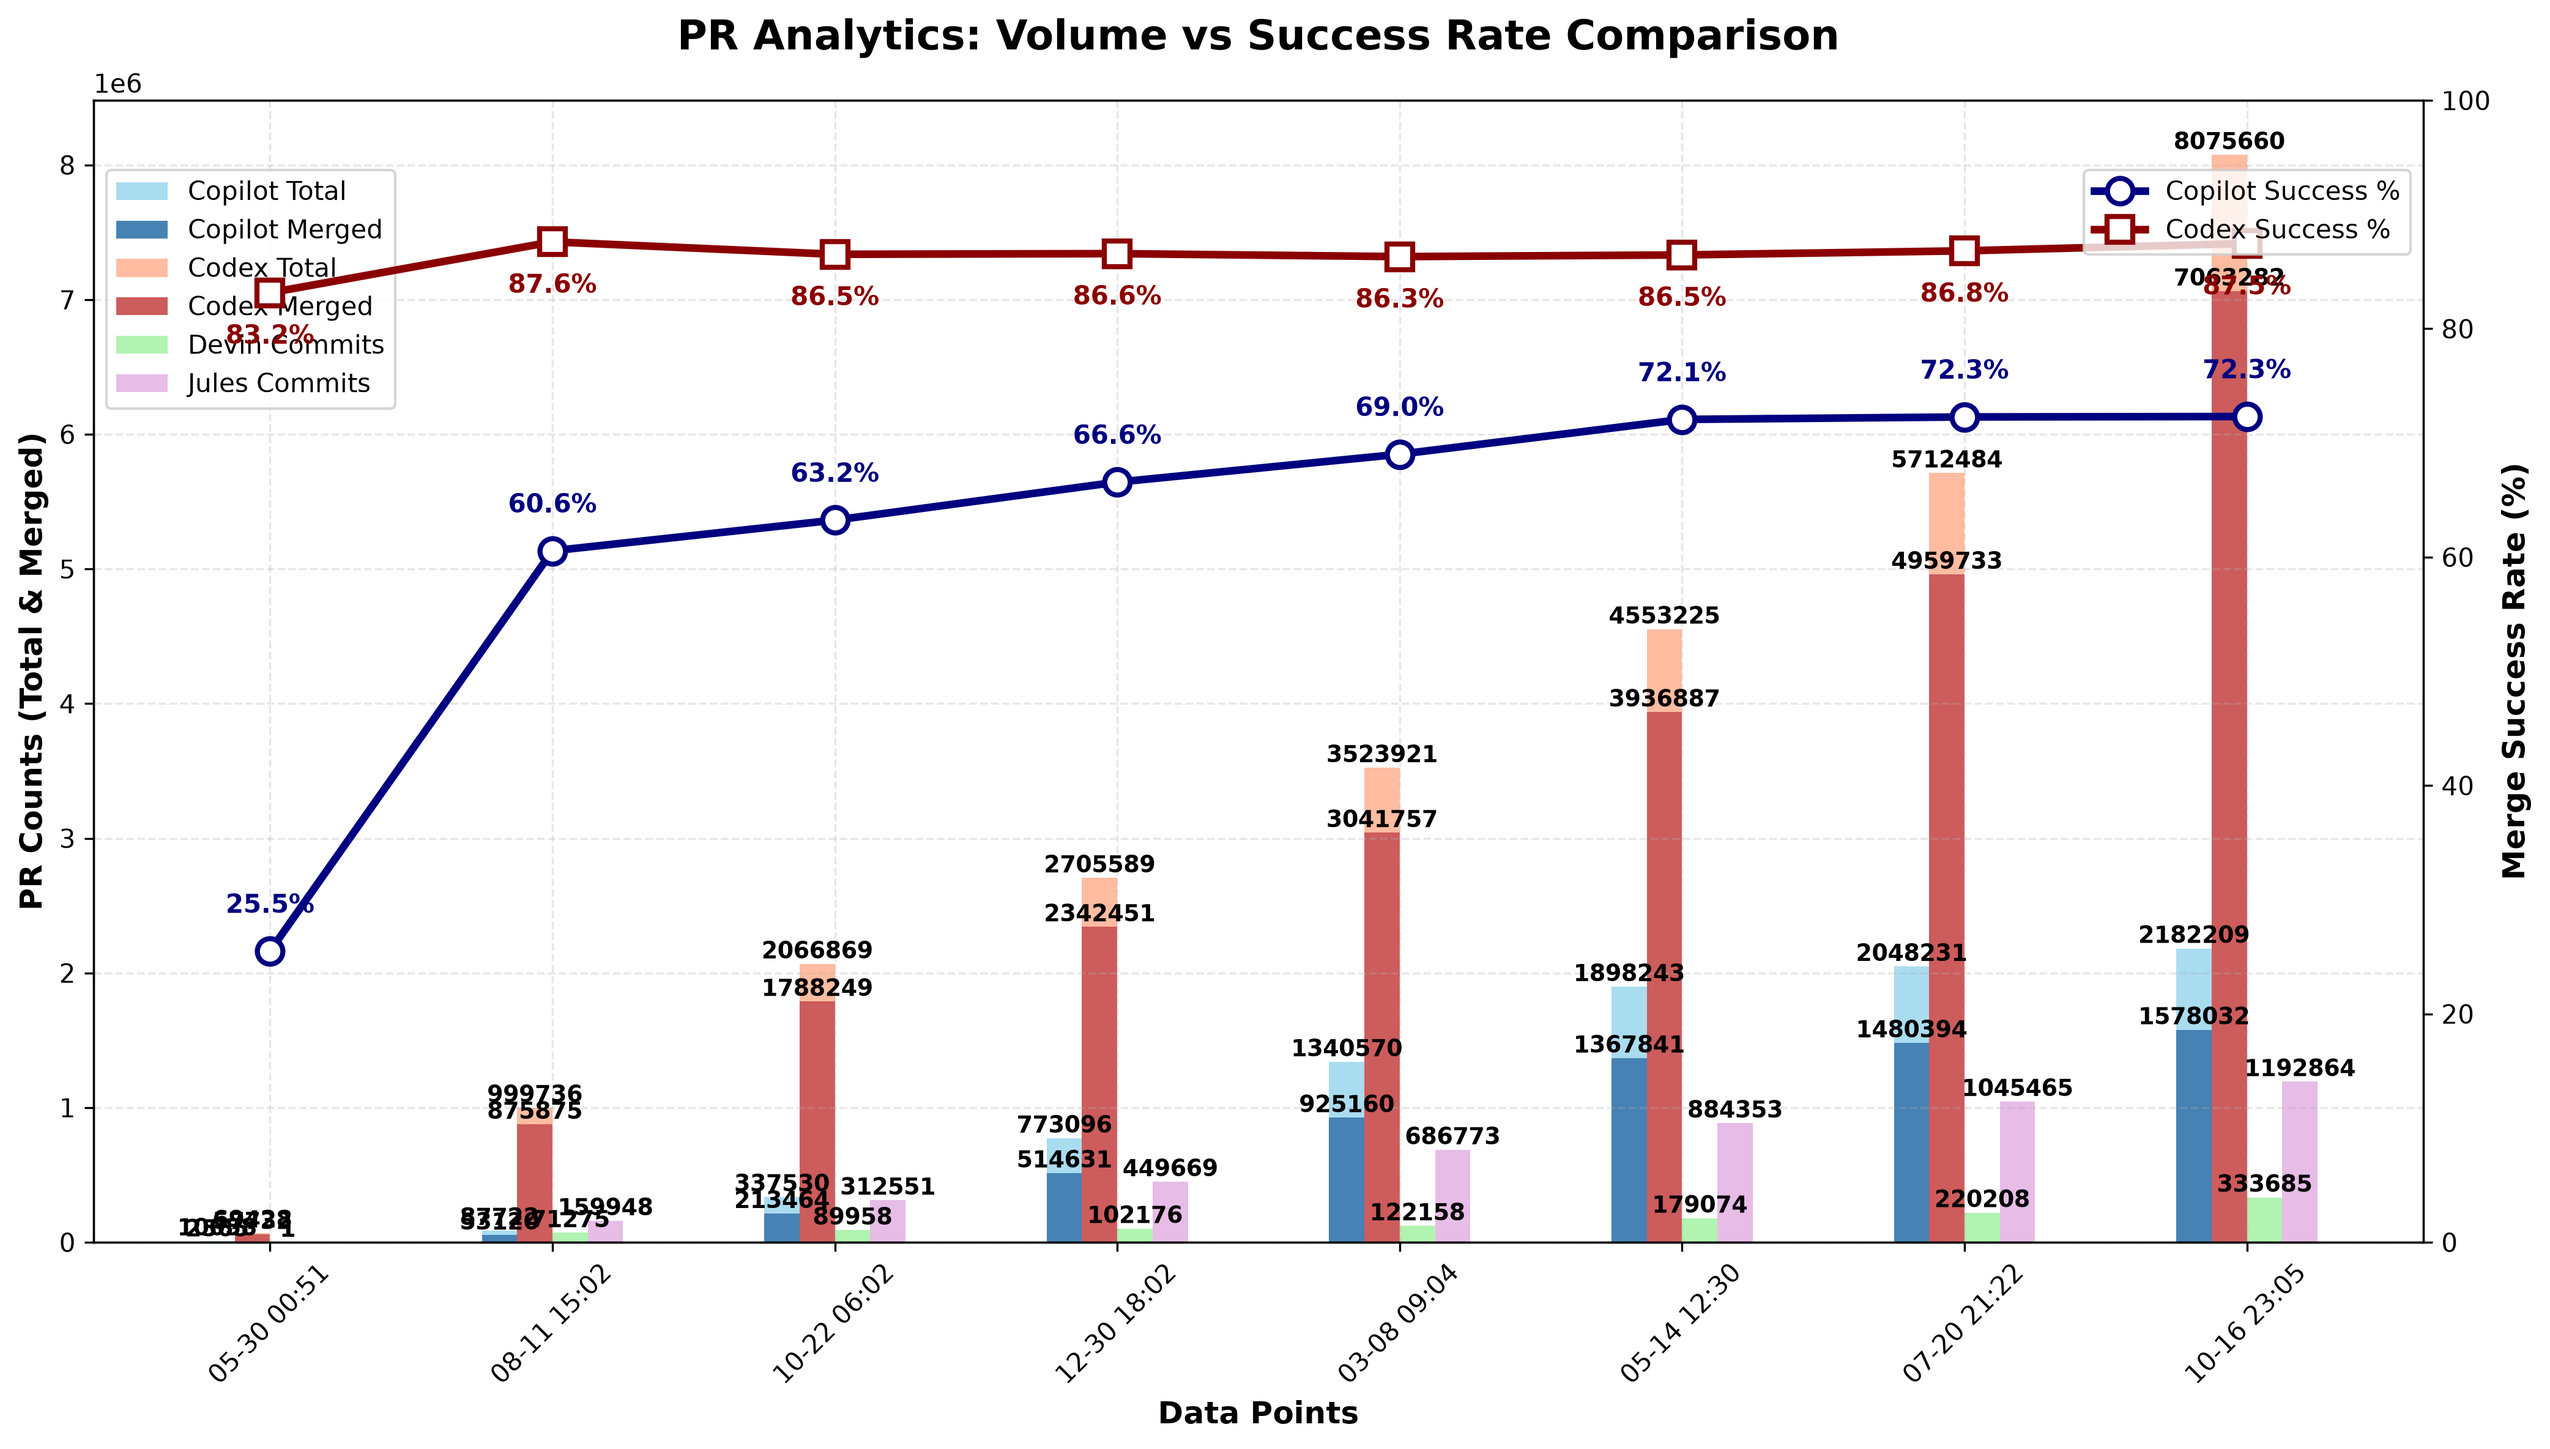
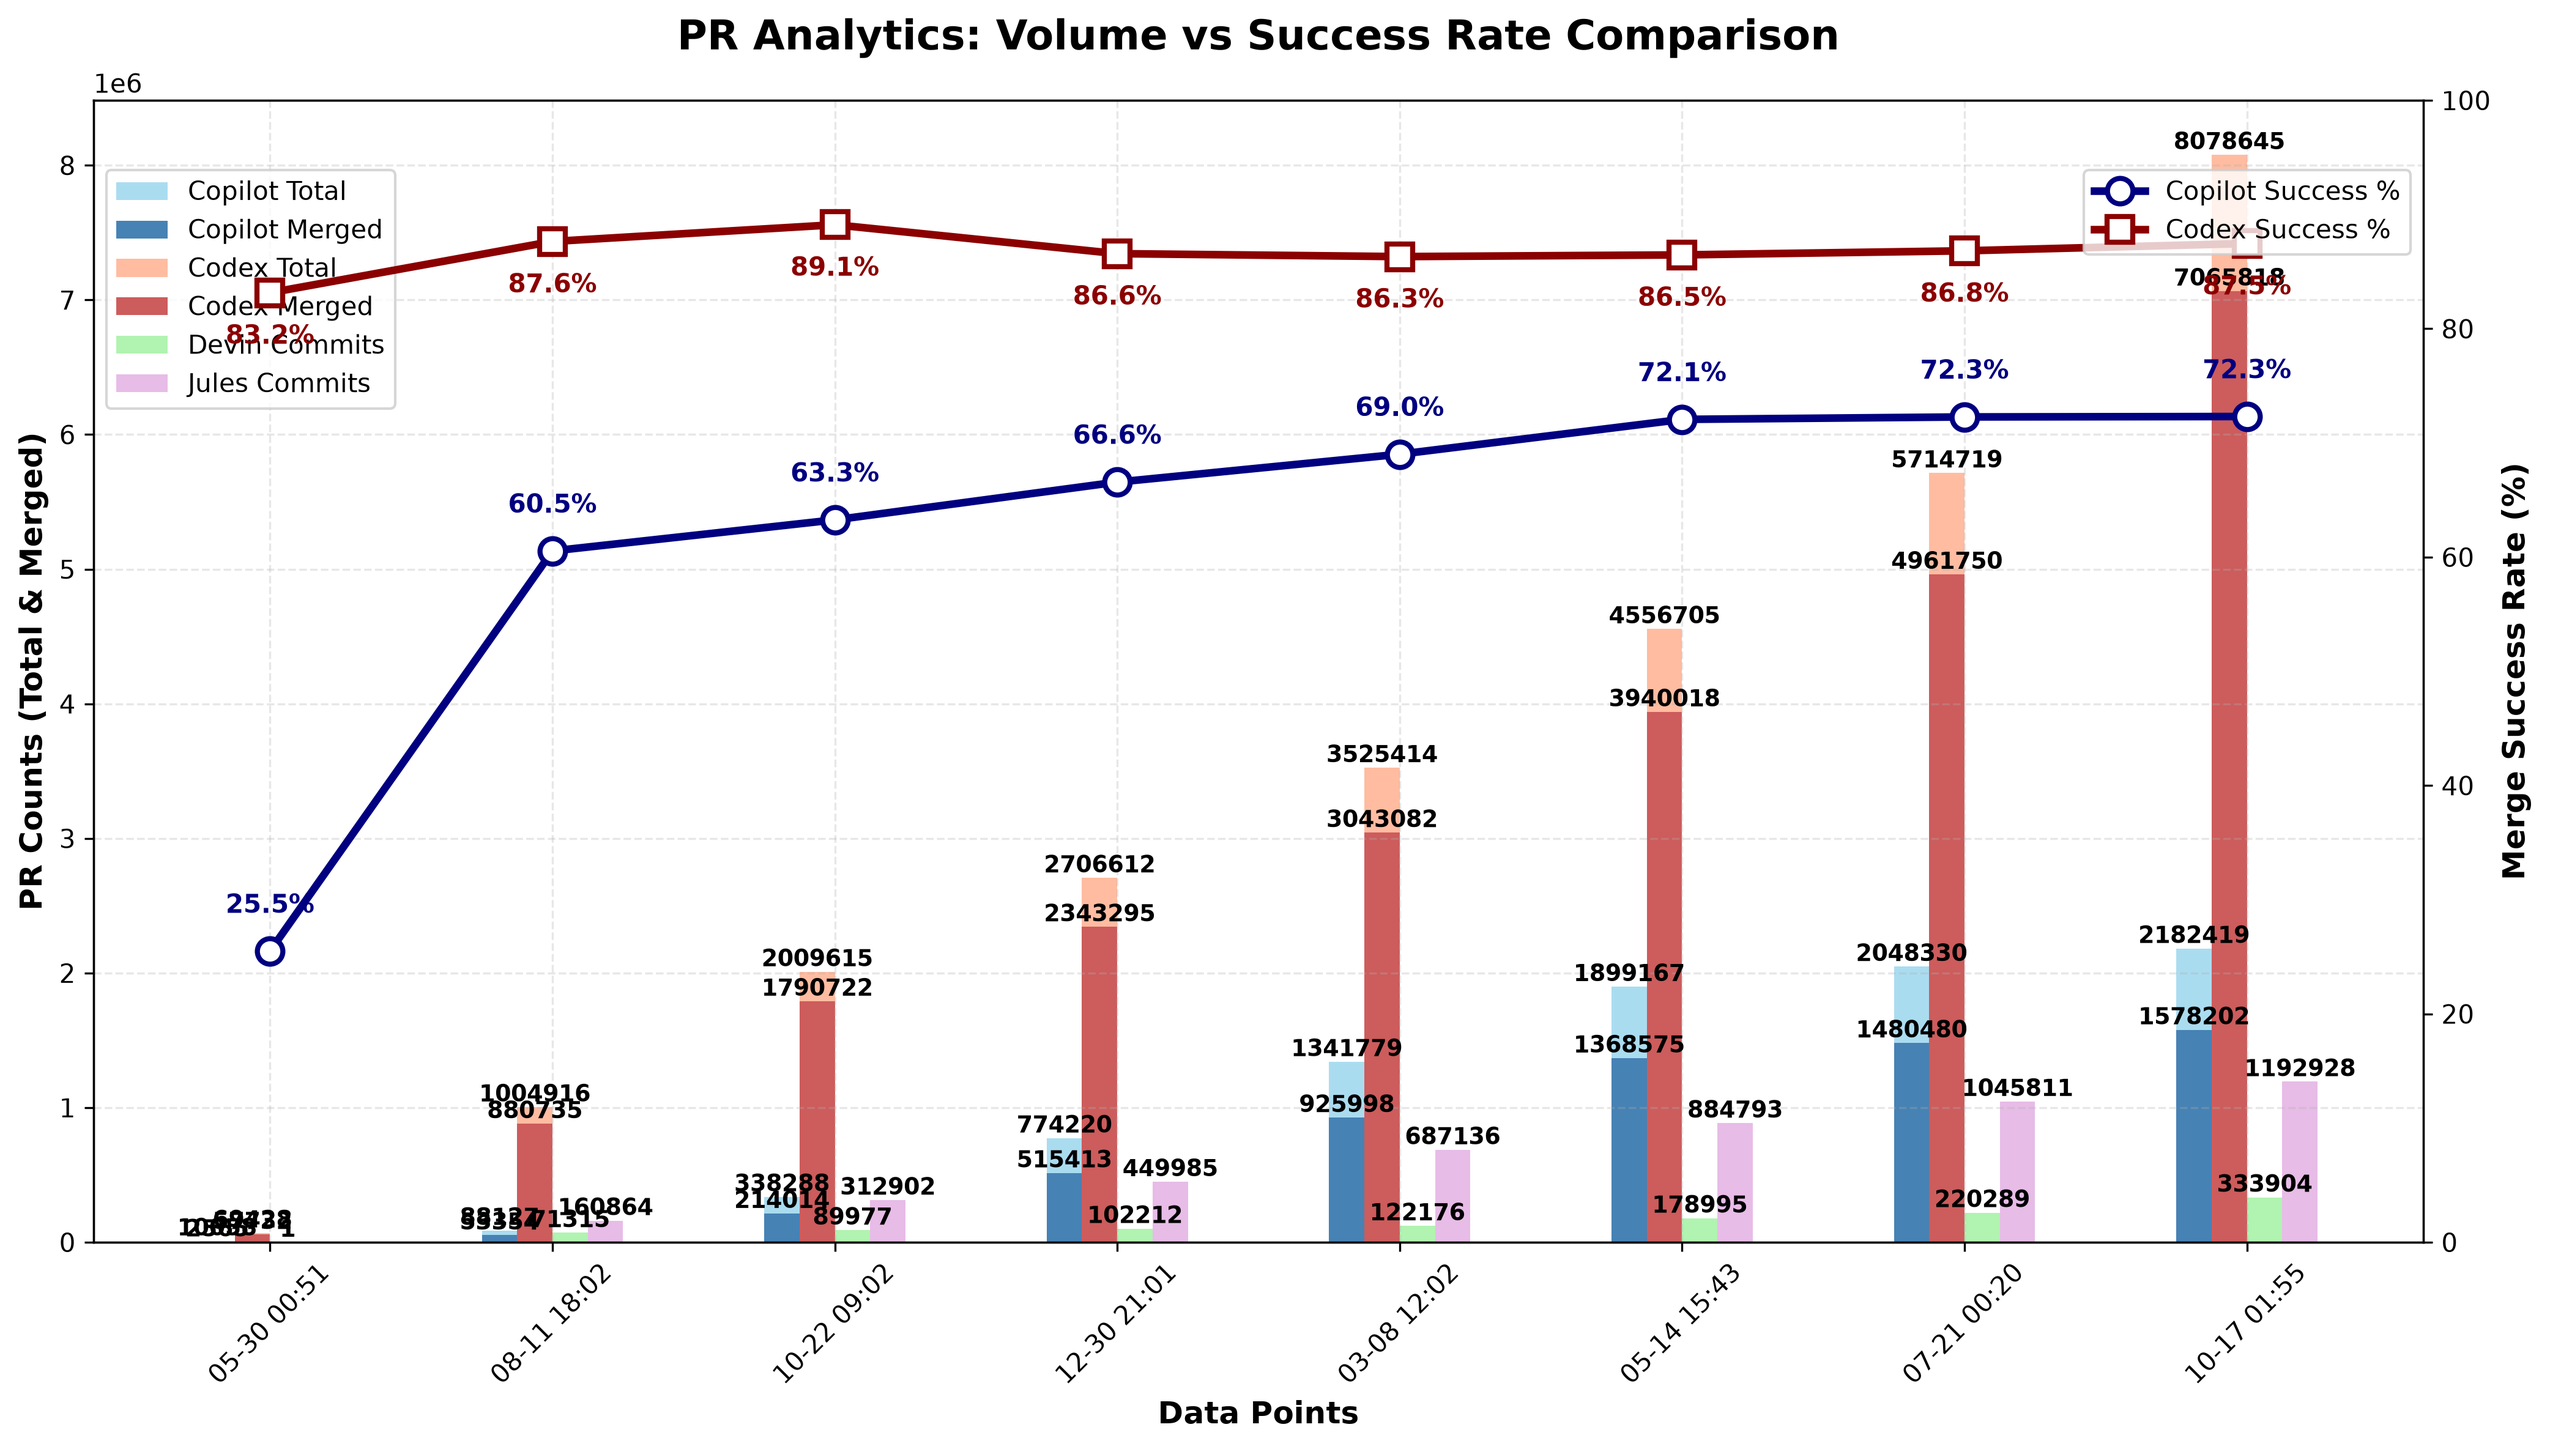
chore: update PR‑approval chart

diff --git a/docs/index.html b/docs/index.html
@@ -3792,6 +3792,7 @@
                         <td>N/A</td>
                         <td>N/A</td>
                         <td>N/A</td>
+                        <td>N/A</td>
                     </tr>
                     <tr>
                         <td>Codex</td>
@@ -7542,27 +7543,28 @@
                         <td>N/A</td>
                         <td>N/A</td>
                         <td>N/A</td>
+                        <td>N/A</td>
                     </tr>
                 <tr>
                         <td>Devin</td>
                         <td>N/A</td>
                         <td>N/A</td>
                         <td>N/A</td>
-                        <td>333,685</td>
+                        <td>333,904</td>
                     </tr>
                     <tr>
                         <td>Jules</td>
                         <td>N/A</td>
                         <td>N/A</td>
                         <td>N/A</td>
-                        <td>1,192,864</td>
+                        <td>1,192,928</td>
                     </tr>
                     </tbody>
             </table>
         </section>
 
         <footer>
-            <p>Last updated: <span id="last-updated">October 16, 2026 23:05 UTC</span></p>
+            <p>Last updated: <span id="last-updated">October 17, 2026 01:55 UTC</span></p>
             <p><a href="https://github.com/aavetis/ai-pr-watcher">View on GitHub</a></p>
         </footer>
     </div>

diff --git a/README.md b/README.md
@@ -19,7 +19,7 @@ Explore the GitHub search queries used:
 
 | Service | Total PRs | Merged PRs | Merge Rate | Total Commits |
 | ------- | --------- | ---------- | ---------- | ------------- |
-| Copilot | 2,182,209 | 1,578,032 | 72.31% | N/A           |
-| Codex   | 8,075,660 | 7,063,282 | 87.46% | N/A           |
-| Devin   | N/A       | N/A        | N/A        | 333,685 |
-| Jules   | N/A       | N/A        | N/A        | 1,192,864 |
+| Copilot | 2,182,419 | 1,578,202 | 72.31% | N/A           |
+| Codex   | 8,078,645 | 7,065,818 | 87.46% | N/A           |
+| Devin   | N/A       | N/A        | N/A        | 333,904 |
+| Jules   | N/A       | N/A        | N/A        | 1,192,928 |
